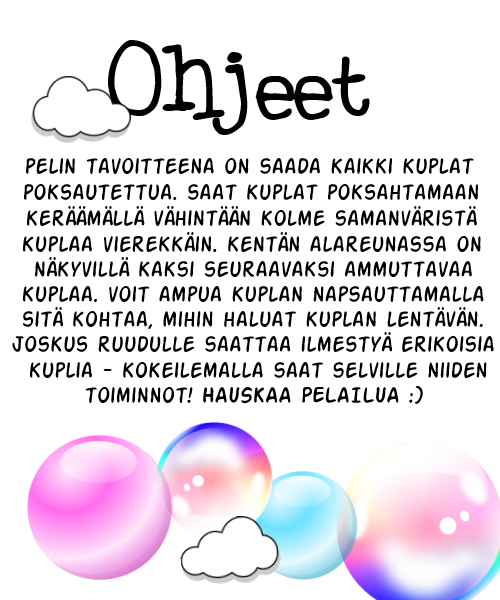
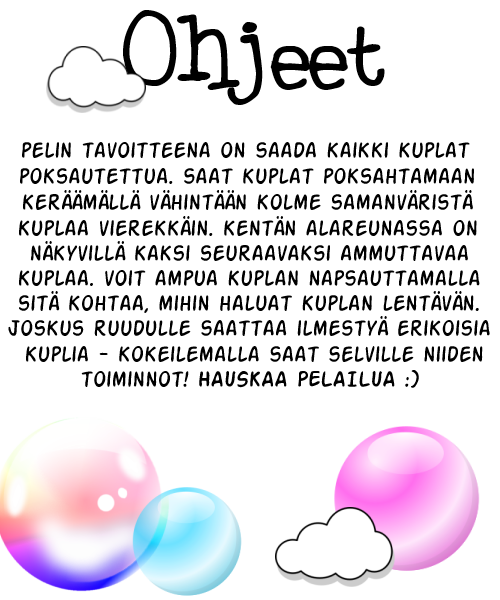
Tehty myös ohjenäyttöön takaisin-jbutton ja sille hiirikuuntelija sekä kuvat. ohjenäytön taustakuva vaihdettu.

diff --git a/src/Ohjenaytto.java b/src/Ohjenaytto.java
@@ -19,13 +19,25 @@ public class Ohjenaytto extends JPanel {
 	private static Image ohjenakyma = 
 			Toolkit.getDefaultToolkit().createImage("media/ohjenakyma.png");
 	private Ikkuna ikkuna;
+	private JButton takaisin;
+	private static ImageIcon takaisin_normal = new ImageIcon("media/takaisin.png");
 	private Border reunus = BorderFactory.createEmptyBorder();
+	private Insets insets;
 	
 	public Ohjenaytto(Ikkuna ikkuna){
 		this.ikkuna = ikkuna;
 		this.setPreferredSize(new Dimension(500, 600));
 		this.setLayout(null);
-		Insets insets = this.getInsets();
+		this.insets = this.getInsets();
+		this.takaisin = new JButton();
+		this.takaisin.setPreferredSize(new Dimension(100, 50));
+		this.takaisin.setIcon(takaisin_normal);
+		this.takaisin.setBorder(this.reunus);
+		this.takaisin.addMouseListener(new Hiirikuuntelija_Takaisin(this, this.ikkuna));
+		this.add(this.takaisin);
+		this.takaisin.setBounds(200 + this.insets.left, 420 + this.insets.top, 
+				100, 50);
+		
 	}
 	
 	public void paintComponent(Graphics g){
@@ -34,4 +46,7 @@ public class Ohjenaytto extends JPanel {
 		g2d.drawImage(ohjenakyma, 0, 0, this);
 	}
 	
+	public void takaisin_asetaKuva(ImageIcon i){
+		this.takaisin.setIcon(i);
+	}
 }

diff --git a/src/Hiirikuuntelija_Takaisin.java b/src/Hiirikuuntelija_Takaisin.java
@@ -1,0 +1,48 @@
+import java.awt.event.MouseEvent;
+import java.awt.event.MouseListener;
+
+import javax.swing.ImageIcon;
+
+
+public class Hiirikuuntelija_Takaisin implements MouseListener {
+	private static final ImageIcon takaisin_normal = 
+			new ImageIcon("media/takaisin.png");
+	private static final ImageIcon takaisin_hiiri = 
+			new ImageIcon("media/takaisin2.png");
+	private Ohjenaytto ohjenaytto;
+	private Ikkuna ikkuna;
+	
+	public Hiirikuuntelija_Takaisin(Ohjenaytto ohjenaytto, Ikkuna ikkuna){
+		this.ohjenaytto = ohjenaytto;
+		this.ikkuna = ikkuna;
+	}
+
+	@Override
+	public void mouseClicked(MouseEvent arg0) {
+		this.ikkuna.vaihdaAloitusnayttoon();
+		
+	}
+
+	@Override
+	public void mouseEntered(MouseEvent arg0) {
+		this.ohjenaytto.takaisin_asetaKuva(takaisin_hiiri);
+	}
+
+	@Override
+	public void mouseExited(MouseEvent arg0) {
+		this.ohjenaytto.takaisin_asetaKuva(takaisin_normal);
+		
+	}
+
+	@Override
+	public void mousePressed(MouseEvent arg0) {
+		// TODO Auto-generated method stub
+		
+	}
+
+	@Override
+	public void mouseReleased(MouseEvent arg0) {
+		// TODO Auto-generated method stub
+		
+	}
+}
